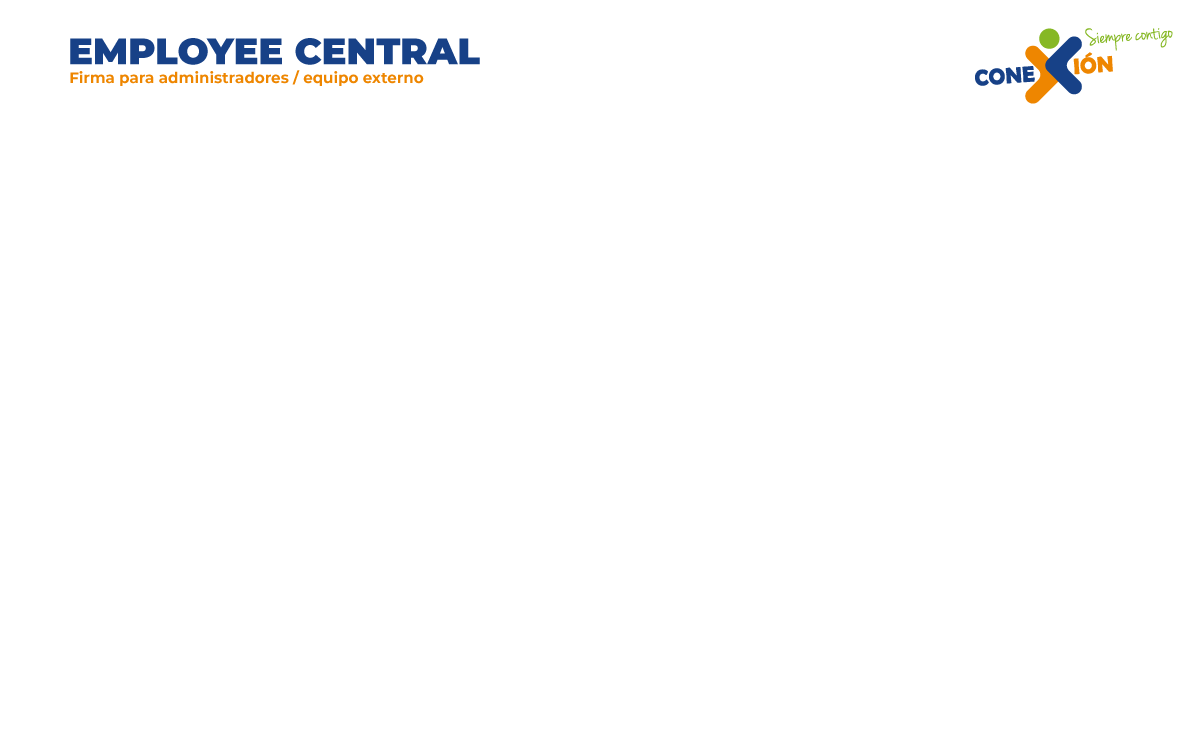
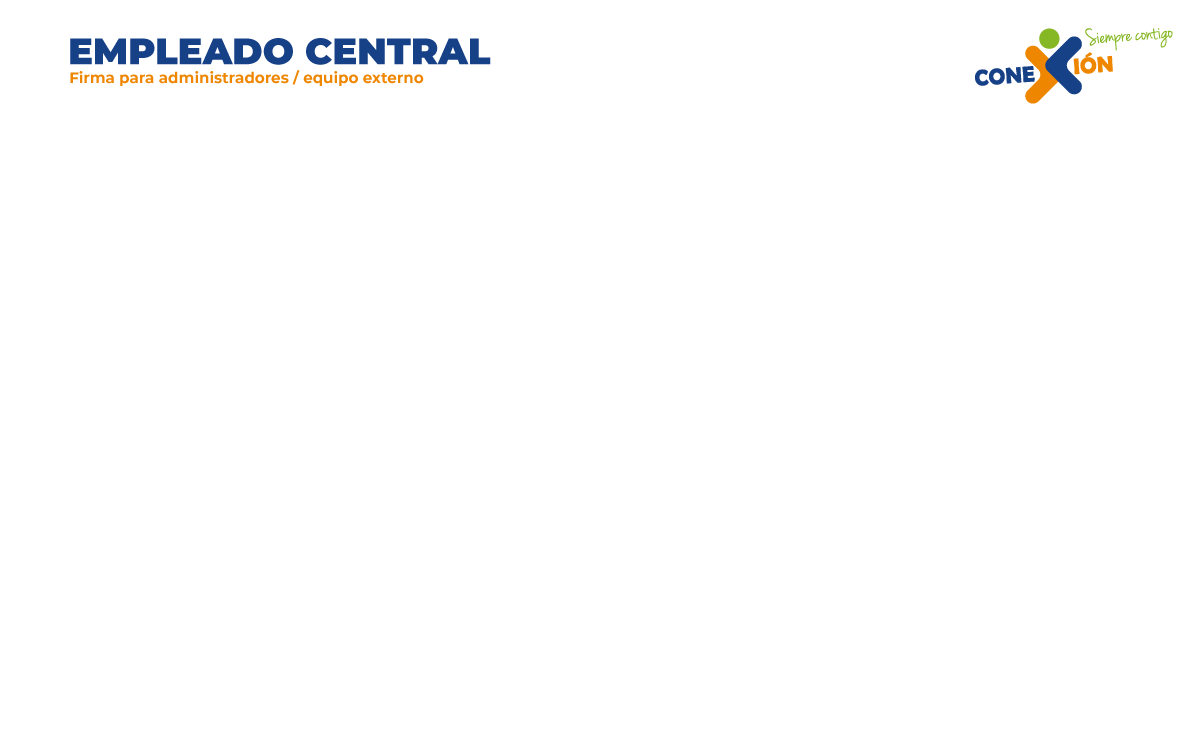
18

Changed region(s): [[0.1542, 0.0307, 0.4008, 0.092]]

diff --git a/Maypo/EmpleadoCentral/CreacionPuestos/contenido/Maypo_EmployeeCentral_07.html b/Maypo/EmpleadoCentral/CreacionPuestos/contenido/Maypo_EmployeeCentral_07.html
@@ -36,16 +36,16 @@
         <img id="sec_img1" class="element" _origenx="0" _origeny="0" src="images/Maypo_EmployeeCentral_07/sec_img01.png"></img>
         <img id="sec_img2" class="element" _origenx="0" _origeny="0" src="images/Maypo_EmployeeCentral_07/sec_img02.png"></img>
         <img id="sec_img3" class="element" _origenx="0" _origeny="0" src="images/Maypo_EmployeeCentral_07/sec_img03.png"></img>
-       
+
         <!-- <img id="img_subts_fondo" class="element" _origenx="0" _origeny="0" src="images/Maypo_EmployeeCentral_07/img_subts_fondo.png"></img> -->
         <img id="sec_img1_subts_01" class="element" _origenx="0" _origeny="0" src="images/Maypo_EmployeeCentral_07/sec_img01_subts_01.png"></img>
         <img id="sec_img2_subts_01" class="element" _origenx="0" _origeny="0" src="images/Maypo_EmployeeCentral_07/sec_img02_subts_01.png"></img>
         <img id="sec_img3_subts_01" class="element" _origenx="0" _origeny="0" src="images/Maypo_EmployeeCentral_07/sec_img03_subts_01.png"></img>
-      
+
         <img id="mouse" class="element" _origenx="-20" _origeny="20" src="images/mouse.png"></img>
 
         <img id="btnSubts" class="element" _origenx="1100" _origeny="627" src="images/Maypo_EmployeeCentral_07/botonSubts.png"></img>
-        <img id="btnSiguiente" class="element" _origenx="1140" _origeny="360" src="images/Maypo_EmployeeCentral_07/botonSiguiente.png"></img>
+        <img id="btnSiguiente" class="element" _origenx="1150" _origeny="360" src="images/Maypo_EmployeeCentral_07/botonSiguiente.png"></img>
         <img id="btnAtras" class="element" _origenx="15" _origeny="360" src="images/Maypo_EmployeeCentral_07/botonAtras.png"></img>
 
 
@@ -90,13 +90,13 @@
 
         var cuantasSecciones = 3;
         var cualAudio = 34;
-        var conMouse = false;
+        var conMouse = true;
         var conSubts = true;
         // var subtsOn;
         // var altoSubts = 125;
-        // this.punto1 = [300, 350, 2000, 500];
-        // this.punto2 = [300, 530, 2000, 500];
-        // this.punto3 = [370, 530, 1000, 500];
+        this.punto1 = [305, 860, 2000, 500];
+        this.punto2 = [430, 820, 2000, 500];
+        this.punto3 = [530, 875, 1000, 500];
         that = this;
 
 
@@ -156,9 +156,9 @@
                     animacion_entrada($("#instrucciones"), "izq_der", .7, 0);
                     break;
                 default:
-                    altoSubts = 125;
+                    // altoSubts = 125;
                     conSubts = true;
-                    conMouse = false;
+                    conMouse = true;
                     break;
             }
 
@@ -184,9 +184,10 @@
                 // });
 
                 setTimeout(function() {
+                    mueveMouse(that['punto' + cualSeccion][0], that['punto' + cualSeccion][1], that['punto' + cualSeccion][2], that['punto' + cualSeccion][3]);
+
                     if (cualSeccion != cuantasSecciones) {
                         if (conMouse) {
-                            // mueveMouse(that['punto' + cualSeccion][0], that['punto' + cualSeccion][1], that['punto' + cualSeccion][2], that['punto' + cualSeccion][3]);
                             parpadea($("#btnSiguiente"), 4);
                         } else {
                             parpadea($("#btnSiguiente"), 0);

diff --git a/Maypo/EmpleadoCentral/CreacionPuestos/contenido/Maypo_EmployeeCentral_05.html b/Maypo/EmpleadoCentral/CreacionPuestos/contenido/Maypo_EmployeeCentral_05.html
@@ -55,7 +55,7 @@
         <img id="mouse" class="element" _origenx="-20" _origeny="20" src="images/mouse.png"></img>
 
         <img id="btnSubts" class="element" _origenx="1100" _origeny="627" src="images/Maypo_EmployeeCentral_05/botonSubts.png"></img>
-        <img id="btnSiguiente" class="element" _origenx="1140" _origeny="360" src="images/Maypo_EmployeeCentral_05/botonSiguiente.png"></img>
+        <img id="btnSiguiente" class="element" _origenx="1150" _origeny="360" src="images/Maypo_EmployeeCentral_05/botonSiguiente.png"></img>
         <img id="btnAtras" class="element" _origenx="15" _origeny="360" src="images/Maypo_EmployeeCentral_05/botonAtras.png"></img>
 
 
@@ -100,13 +100,17 @@
 
         var cuantasSecciones = 7;
         var cualAudio = 20;
-        var conMouse = false;
+        var conMouse = true;
         var conSubts = true;
         // var subtsOn;
         // var altoSubts = 125;
-        // this.punto1 = [300, 350, 2000, 500];
-        // this.punto2 = [300, 530, 2000, 500];
-        // this.punto3 = [370, 530, 1000, 500];
+        this.punto1 = [215, 860, 2000, 500];
+        this.punto2 = [320, 1030, 2000, 500];
+        this.punto3 = [380, 485, 1000, 500];
+        this.punto4 = [535, 1050, 1000, 500];
+        this.punto5 = [370, 820, 1000, 500];
+        this.punto6 = [525, 780, 1000, 500];
+        this.punto7 = [540, 1045, 1000, 500];
         that = this;
 
 
@@ -166,9 +170,9 @@
                     animacion_entrada($("#instrucciones"), "izq_der", .7, 0);
                     break;
                 default:
-                    altoSubts = 125;
+                    // altoSubts = 125;
                     conSubts = true;
-                    conMouse = false;
+                    conMouse = true;
                     break;
             }
 
@@ -194,9 +198,10 @@
                 // });
 
                 setTimeout(function() {
+                    mueveMouse(that['punto' + cualSeccion][0], that['punto' + cualSeccion][1], that['punto' + cualSeccion][2], that['punto' + cualSeccion][3]);
+
                     if (cualSeccion != cuantasSecciones) {
                         if (conMouse) {
-                            // mueveMouse(that['punto' + cualSeccion][0], that['punto' + cualSeccion][1], that['punto' + cualSeccion][2], that['punto' + cualSeccion][3]);
                             parpadea($("#btnSiguiente"), 4);
                         } else {
                             parpadea($("#btnSiguiente"), 0);

diff --git a/Maypo/EmpleadoCentral/CreacionPuestos/contenido/Maypo_EmployeeCentral_04.html b/Maypo/EmpleadoCentral/CreacionPuestos/contenido/Maypo_EmployeeCentral_04.html
@@ -47,7 +47,7 @@
         <img id="mouse" class="element" _origenx="-20" _origeny="20" src="images/mouse.png"></img>
 
         <img id="btnSubts" class="element" _origenx="1100" _origeny="627" src="images/Maypo_EmployeeCentral_04/botonSubts.png"></img>
-        <img id="btnSiguiente" class="element" _origenx="1140" _origeny="360" src="images/Maypo_EmployeeCentral_04/botonSiguiente.png"></img>
+        <img id="btnSiguiente" class="element" _origenx="1150" _origeny="360" src="images/Maypo_EmployeeCentral_04/botonSiguiente.png"></img>
         <img id="btnAtras" class="element" _origenx="15" _origeny="360" src="images/Maypo_EmployeeCentral_04/botonAtras.png"></img>
 
 
@@ -92,13 +92,14 @@
 
         var cuantasSecciones = 4;
         var cualAudio = 7;
-        var conMouse = false;
+        var conMouse = true;
         var conSubts = true;
         // var subtsOn;
         // var altoSubts = 125;
-        // this.punto1 = [300, 350, 2000, 500];
-        // this.punto2 = [300, 530, 2000, 500];
-        // this.punto3 = [370, 530, 1000, 500];
+        this.punto1 = [220, 865, 2000, 500];
+        this.punto2 = [270, 1040, 2000, 500];
+        this.punto3 = [510, 1060, 1000, 500];
+        this.punto4 = [350, 1060, 1000, 500];
         that = this;
 
 
@@ -158,9 +159,9 @@
                     animacion_entrada($("#instrucciones"), "izq_der", .7, 0);
                     break;
                 default:
-                    altoSubts = 125;
+                    // altoSubts = 125;
                     conSubts = true;
-                    conMouse = false;
+                    conMouse = true;
                     break;
             }
 
@@ -186,9 +187,10 @@
                 // });
 
                 setTimeout(function() {
+                    mueveMouse(that['punto' + cualSeccion][0], that['punto' + cualSeccion][1], that['punto' + cualSeccion][2], that['punto' + cualSeccion][3]);
+
                     if (cualSeccion != cuantasSecciones) {
                         if (conMouse) {
-                            // mueveMouse(that['punto' + cualSeccion][0], that['punto' + cualSeccion][1], that['punto' + cualSeccion][2], that['punto' + cualSeccion][3]);
                             parpadea($("#btnSiguiente"), 4);
                         } else {
                             parpadea($("#btnSiguiente"), 0);

diff --git a/Maypo/EmpleadoCentral/CreacionPuestos/contenido/Maypo_EmployeeCentral_06.html b/Maypo/EmpleadoCentral/CreacionPuestos/contenido/Maypo_EmployeeCentral_06.html
@@ -47,7 +47,7 @@
         <img id="mouse" class="element" _origenx="-20" _origeny="20" src="images/mouse.png"></img>
 
         <img id="btnSubts" class="element" _origenx="1100" _origeny="627" src="images/Maypo_EmployeeCentral_06/botonSubts.png"></img>
-        <img id="btnSiguiente" class="element" _origenx="1140" _origeny="360" src="images/Maypo_EmployeeCentral_06/botonSiguiente.png"></img>
+        <img id="btnSiguiente" class="element" _origenx="1150" _origeny="360" src="images/Maypo_EmployeeCentral_06/botonSiguiente.png"></img>
         <img id="btnAtras" class="element" _origenx="15" _origeny="360" src="images/Maypo_EmployeeCentral_06/botonAtras.png"></img>
 
 
@@ -92,13 +92,14 @@
 
         var cuantasSecciones = 4;
         var cualAudio = 29;
-        var conMouse = false;
+        var conMouse = true;
         var conSubts = true;
         // var subtsOn;
         // var altoSubts = 125;
-        // this.punto1 = [300, 350, 2000, 500];
-        // this.punto2 = [300, 530, 2000, 500];
-        // this.punto3 = [370, 530, 1000, 500];
+        this.punto1 = [300, 1065, 2000, 500];
+        this.punto2 = [305, 660, 2000, 500];
+        this.punto3 = [560, 990, 1000, 500];
+        this.punto4 = [480, 990, 1000, 500];
         that = this;
 
 
@@ -158,9 +159,9 @@
                     animacion_entrada($("#instrucciones"), "izq_der", .7, 0);
                     break;
                 default:
-                    altoSubts = 125;
+                    // altoSubts = 125;
                     conSubts = true;
-                    conMouse = false;
+                    conMouse = true;
                     break;
             }
 
@@ -186,9 +187,10 @@
                 // });
 
                 setTimeout(function() {
+                    mueveMouse(that['punto' + cualSeccion][0], that['punto' + cualSeccion][1], that['punto' + cualSeccion][2], that['punto' + cualSeccion][3]);
+
                     if (cualSeccion != cuantasSecciones) {
                         if (conMouse) {
-                            // mueveMouse(that['punto' + cualSeccion][0], that['punto' + cualSeccion][1], that['punto' + cualSeccion][2], that['punto' + cualSeccion][3]);
                             parpadea($("#btnSiguiente"), 4);
                         } else {
                             parpadea($("#btnSiguiente"), 0);

diff --git a/Maypo/EmpleadoCentral/CreacionPuestos/contenido/Maypo_EmployeeCentral_03.html b/Maypo/EmpleadoCentral/CreacionPuestos/contenido/Maypo_EmployeeCentral_03.html
@@ -47,7 +47,7 @@
         <img id="mouse" class="element" _origenx="-20" _origeny="20" src="images/mouse.png"></img>
 
         <img id="btnSubts" class="element" _origenx="1100" _origeny="627" src="images/Maypo_EmployeeCentral_03/botonSubts.png"></img>
-        <img id="btnSiguiente" class="element" _origenx="1140" _origeny="360" src="images/Maypo_EmployeeCentral_03/botonSiguiente.png"></img>
+        <img id="btnSiguiente" class="element" _origenx="1150" _origeny="360" src="images/Maypo_EmployeeCentral_03/botonSiguiente.png"></img>
         <img id="btnAtras" class="element" _origenx="15" _origeny="360" src="images/Maypo_EmployeeCentral_03/botonAtras.png"></img>
 
 
@@ -92,13 +92,14 @@
 
         var cuantasSecciones = 4;
         var cualAudio = 2;
-        var conMouse = false;
+        var conMouse = true;
         var conSubts = true;
         // var subtsOn;
         // var altoSubts = 125;
-        // this.punto1 = [300, 350, 2000, 500];
-        // this.punto2 = [300, 530, 2000, 500];
-        // this.punto3 = [370, 530, 1000, 500];
+        this.punto1 = [225, 850, 2000, 500];
+        this.punto2 = [353, 1040, 2000, 500];
+        this.punto3 = [515, 990, 1000, 500];
+        this.punto4 = [515, 900, 1000, 500];
         that = this;
 
 
@@ -158,9 +159,9 @@
                     animacion_entrada($("#instrucciones"), "izq_der", .7, 0);
                     break;
                 default:
-                    altoSubts = 125;
+                    // altoSubts = 125;
                     conSubts = true;
-                    conMouse = false;
+                    conMouse = true;
                     break;
             }
 
@@ -186,9 +187,10 @@
                 // });
 
                 setTimeout(function() {
+                    mueveMouse(that['punto' + cualSeccion][0], that['punto' + cualSeccion][1], that['punto' + cualSeccion][2], that['punto' + cualSeccion][3]);
+
                     if (cualSeccion != cuantasSecciones) {
                         if (conMouse) {
-                            // mueveMouse(that['punto' + cualSeccion][0], that['punto' + cualSeccion][1], that['punto' + cualSeccion][2], that['punto' + cualSeccion][3]);
                             parpadea($("#btnSiguiente"), 4);
                         } else {
                             parpadea($("#btnSiguiente"), 0);

diff --git a/Maypo/EmpleadoCentral/CreacionPuestos/js/Configuration.js b/Maypo/EmpleadoCentral/CreacionPuestos/js/Configuration.js
@@ -40,18 +40,18 @@ recursos.pages = [
 
 /* Audios del curso */
 var grupoAudios = new buzz.group([
-      /*0*/ new buzz.sound("contenido/audios/audio0", { formats: ["mp3"], preload: true }),
-    /*1*/ new buzz.sound("contenido/audios/1", { formats: ["mp3"], preload: true }),
+    /*00*/ new buzz.sound("contenido/audios/audio0", { formats: ["mp3"], preload: true }),
+    /*01*/ new buzz.sound("contenido/audios/01", { formats: ["mp3"], preload: true }),
 
-    /*2*/ new buzz.sound("contenido/audios/2", { formats: ["mp3"], preload: true }),
-    /*3*/ new buzz.sound("contenido/audios/3", { formats: ["mp3"], preload: true }),
-    /*4*/ new buzz.sound("contenido/audios/4", { formats: ["mp3"], preload: true }),
-    /*5*/ new buzz.sound("contenido/audios/5", { formats: ["mp3"], preload: true }),
-    /*6*/ new buzz.sound("contenido/audios/6", { formats: ["mp3"], preload: true }),
+    /*02*/ new buzz.sound("contenido/audios/02", { formats: ["mp3"], preload: true }),
+    /*03*/ new buzz.sound("contenido/audios/03", { formats: ["mp3"], preload: true }),
+    /*04*/ new buzz.sound("contenido/audios/04", { formats: ["mp3"], preload: true }),
+    /*05*/ new buzz.sound("contenido/audios/05", { formats: ["mp3"], preload: true }),
+    /*06*/ new buzz.sound("contenido/audios/06", { formats: ["mp3"], preload: true }),
 
-    /*7*/ new buzz.sound("contenido/audios/7", { formats: ["mp3"], preload: true }),
-    /*8*/ new buzz.sound("contenido/audios/8", { formats: ["mp3"], preload: true }),
-    /*9*/ new buzz.sound("contenido/audios/9", { formats: ["mp3"], preload: true }),
+    /*07*/ new buzz.sound("contenido/audios/07", { formats: ["mp3"], preload: true }),
+    /*08*/ new buzz.sound("contenido/audios/08", { formats: ["mp3"], preload: true }),
+    /*09*/ new buzz.sound("contenido/audios/09", { formats: ["mp3"], preload: true }),
     /*10*/ new buzz.sound("contenido/audios/10", { formats: ["mp3"], preload: true }),
     /*11*/ new buzz.sound("contenido/audios/11", { formats: ["mp3"], preload: true }),
 

diff --git a/Maypo/EmpleadoCentral/CreacionPuestos/index.html b/Maypo/EmpleadoCentral/CreacionPuestos/index.html
@@ -94,7 +94,7 @@
             <div id="temarioTitle"><span>TEMARIO</span></div>
             <div id="items">
 
-                <div class="tema"><span>Employee Central - Creación de Puestos</span></div>
+                <div class="tema"><span>Empleado Central - Creación de Puestos</span></div>
                 <div id="item1" _ID="0" class="linkPage"><i class="fa fa-square-o"></i><span>Bienvenida</span></div>
                 <div id="item2" _ID="1" class="linkPage"><i class="fa fa-square-o"></i><span>Guía de navegación</span></div>
                 <div id="item3" _ID="2" class="linkPage"><i class="fa fa-square-o"></i><span>Creación de Puestos</span></div>
